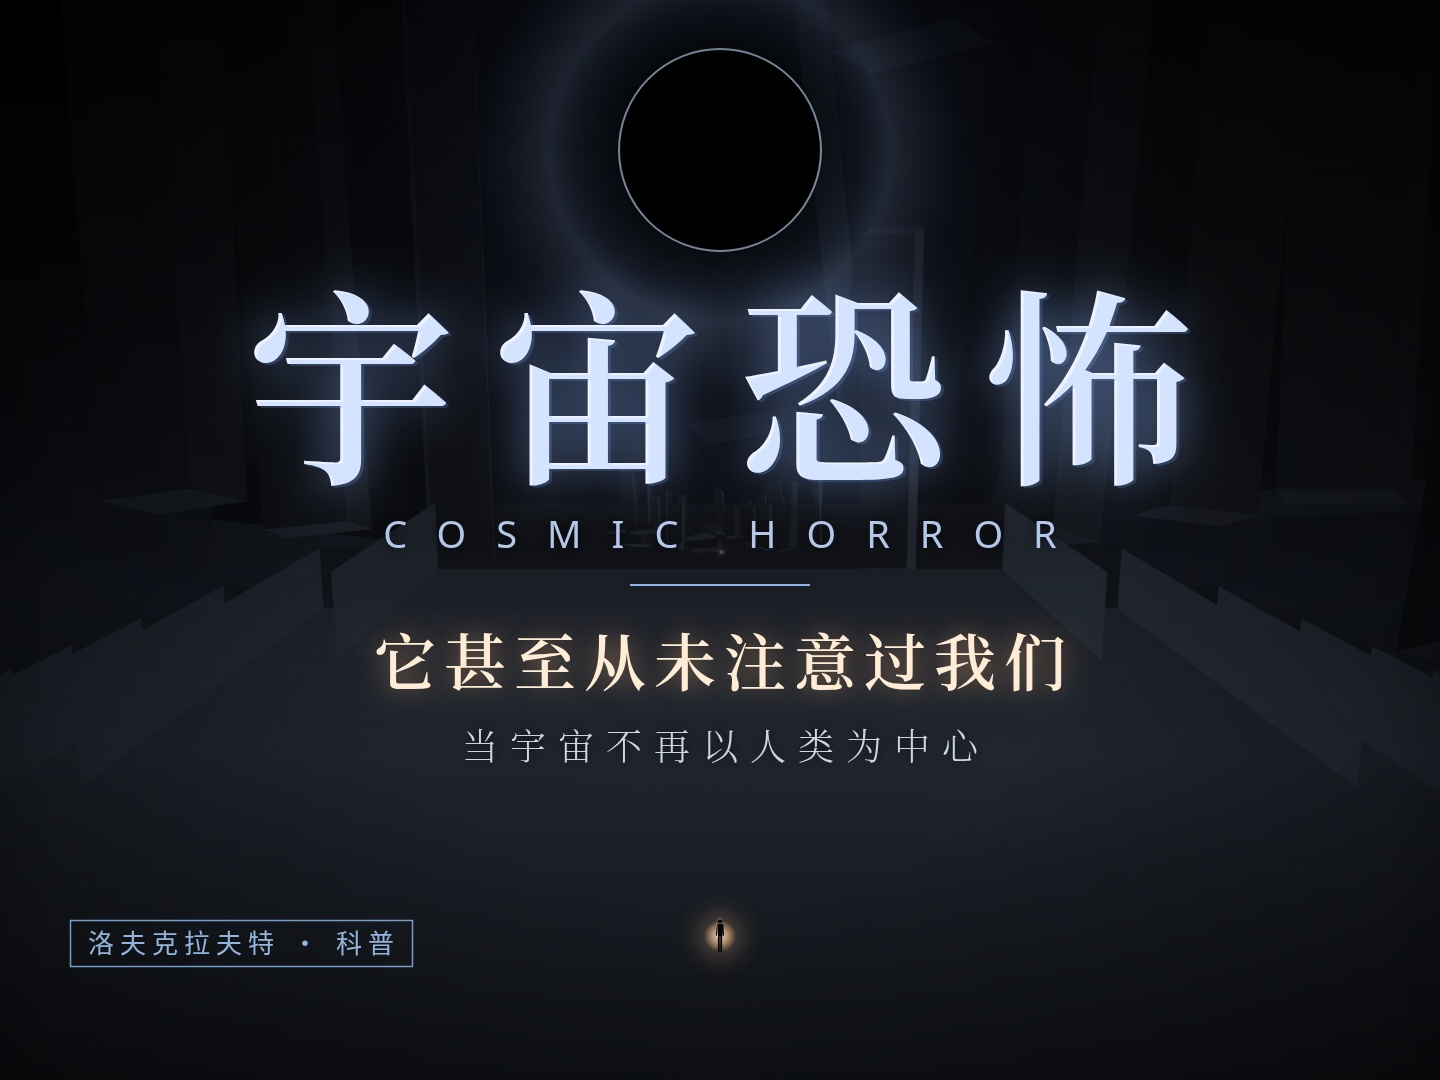
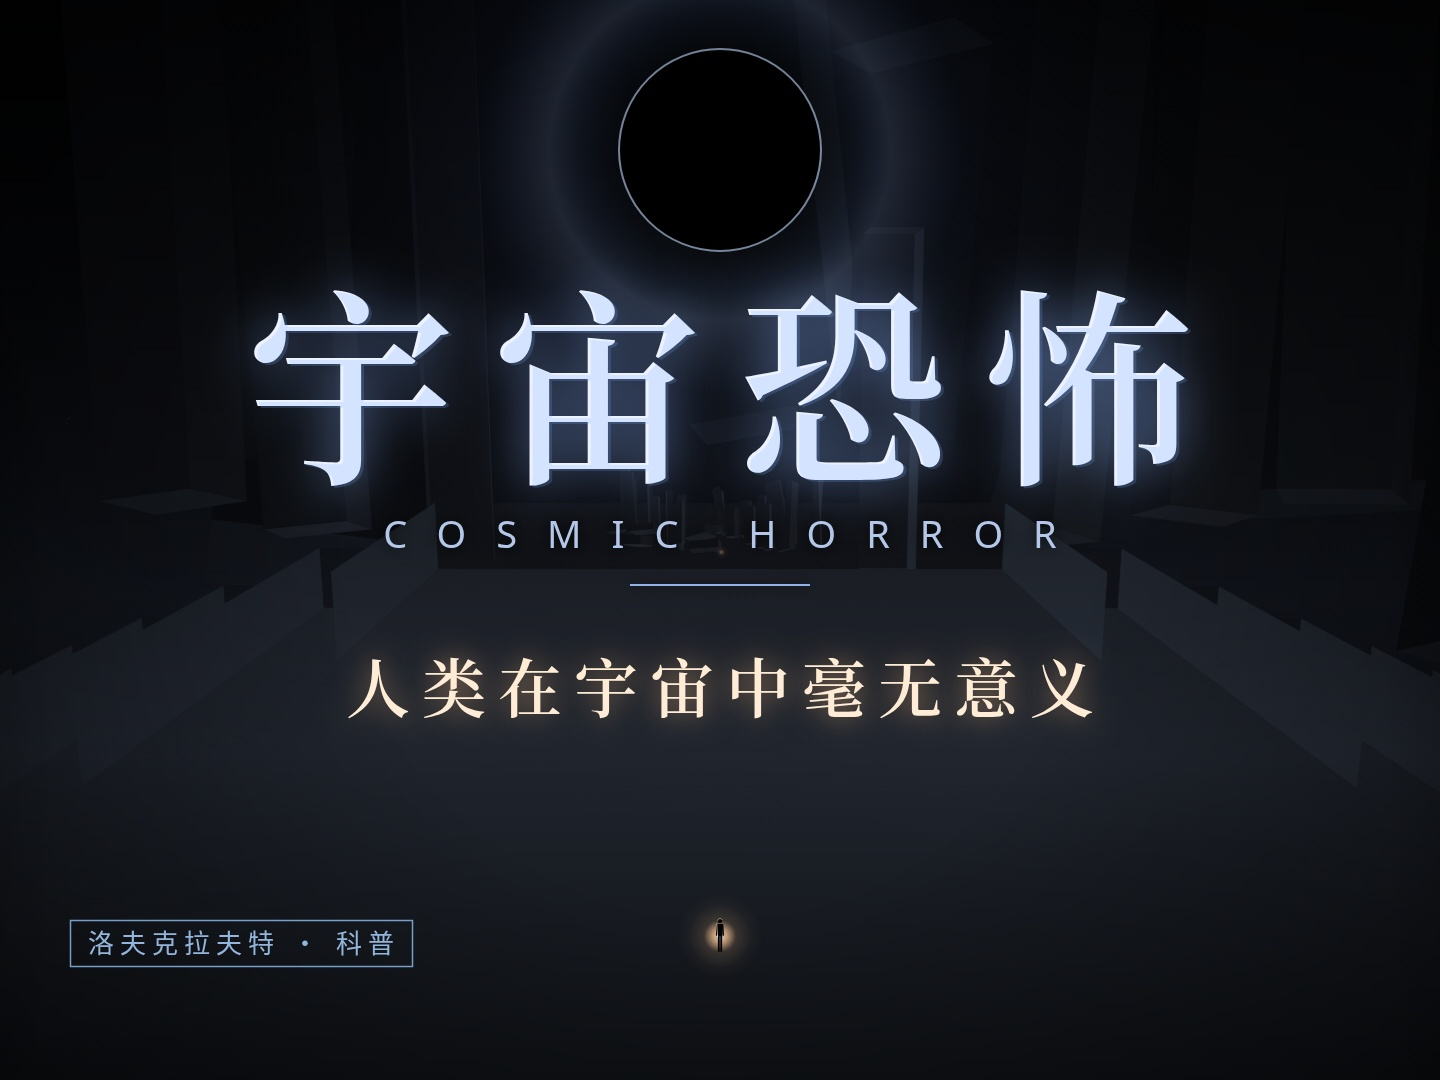
Cover: single warm subtitle '人类在宇宙中毫无意义'

Changed region(s): [[0.25, 0.5806, 0.75, 0.7028]]

diff --git a/cosmic-horror-ii/source/src/cover.js b/cosmic-horror-ii/source/src/cover.js
@@ -46,15 +46,11 @@
     ctx.shadowColor = 'rgba(0,0,0,0.9)'; ctx.shadowBlur = 14;
     ctx.fillText('COSMIC HORROR', W / 2 + 15, 548);
     ctx.fillStyle = 'rgba(160,195,255,0.9)'; ctx.fillRect(W / 2 - 90, 584, 180, 2);
-    // hook line
-    ctx.font = '62px "SerifB"'; ctx.letterSpacing = '8px';
-    ctx.shadowColor = 'rgba(255,190,130,0.55)'; ctx.shadowBlur = 26;
+    // single warm subtitle
+    ctx.font = '64px "SerifB"'; ctx.letterSpacing = '12px';
+    ctx.shadowColor = 'rgba(255,190,130,0.6)'; ctx.shadowBlur = 28;
     ctx.fillStyle = 'rgb(255,236,214)';
-    ctx.fillText('它甚至从未注意过我们', W / 2 + 4, 686);
-    // subtitle
-    ctx.shadowColor = 'rgba(0,0,0,0.95)'; ctx.shadowBlur = 14;
-    ctx.font = '36px "SerifL"'; ctx.letterSpacing = '12px'; ctx.fillStyle = 'rgba(214,224,240,0.95)';
-    ctx.fillText('当宇宙不再以人类为中心', W / 2 + 6, 760);
+    ctx.fillText('人类在宇宙中毫无意义', W / 2 + 6, 712);
     ctx.restore();
 
     // 5) the tiny human with a warm light (bottom-centre, kept away from B站's bottom-right duration badge)
